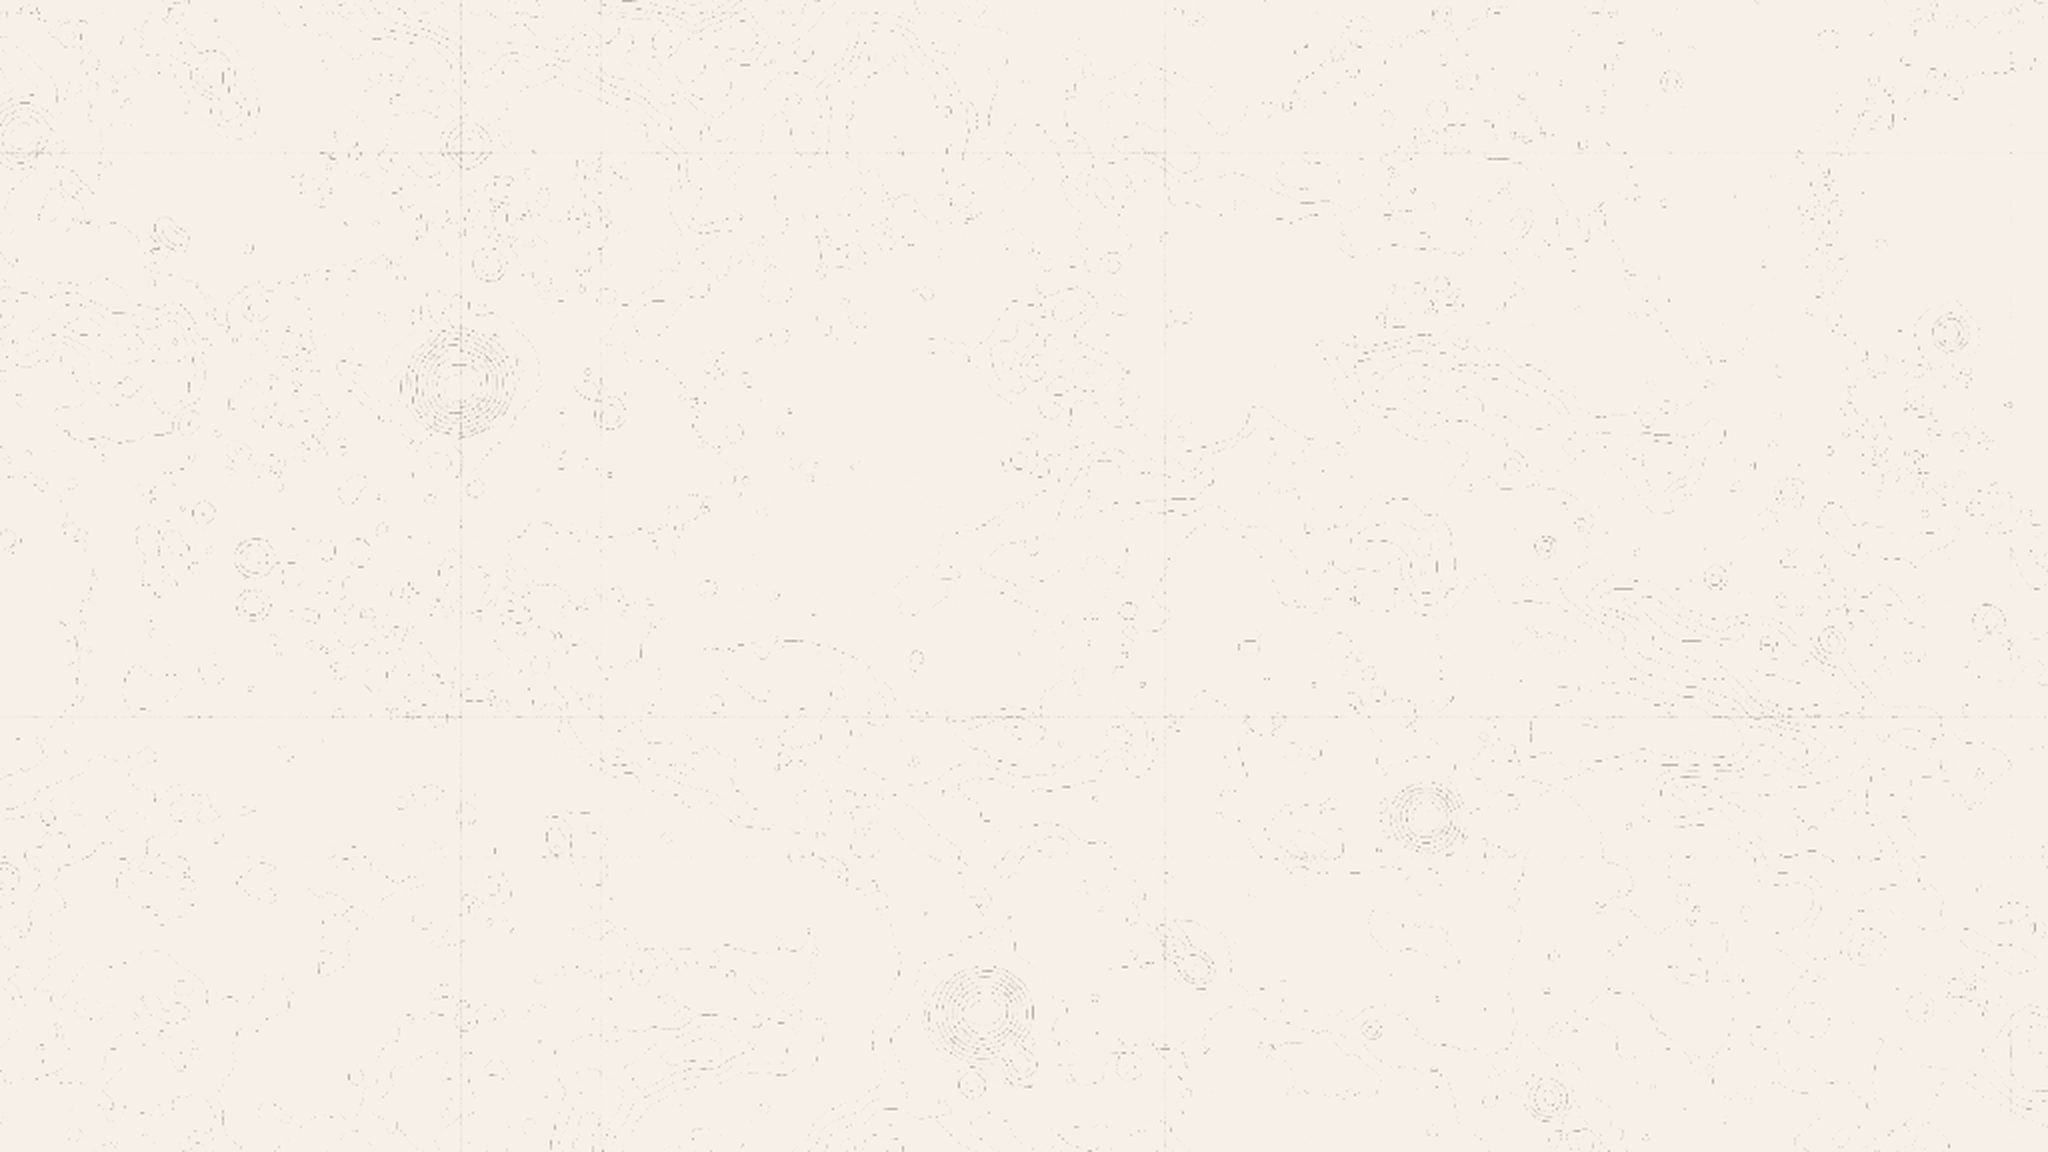
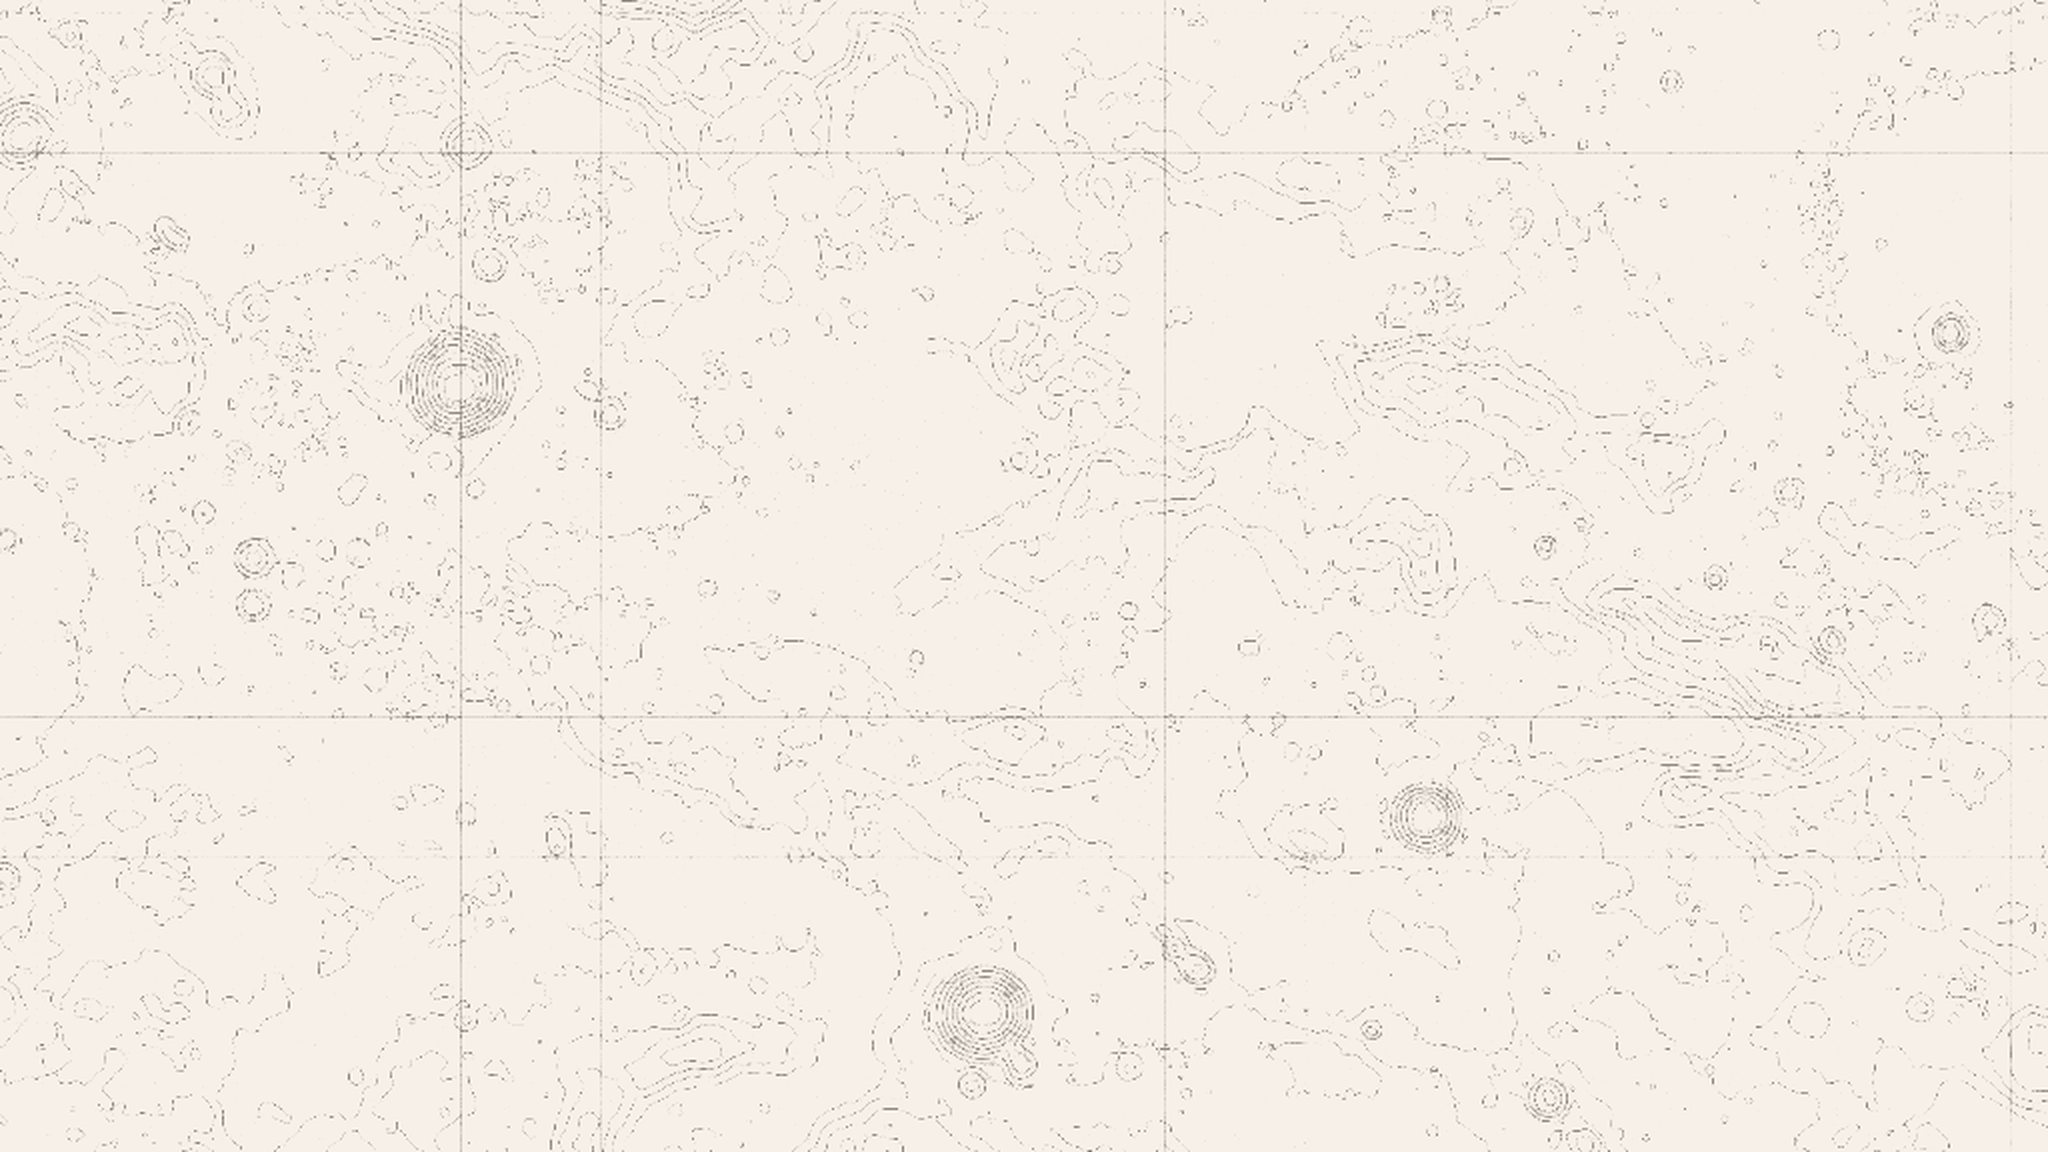
Make the chart readable without leaving the paper color.
The first pass was so light it vanished behind the text.

diff --git a/index.html b/index.html
@@ -5,7 +5,7 @@
   <meta name="viewport" content="width=device-width, initial-scale=1">
   <title>Substrate</title>
   <meta name="description" content="Shipment tracking and document filing automation. A service of Substrate Technologies Limited.">
-  <link rel="stylesheet" href="styles.css?v=4">
+  <link rel="stylesheet" href="styles.css?v=5">
 </head>
 <body>
   <main class="wrap">

diff --git a/privacy.html b/privacy.html
@@ -4,7 +4,7 @@
   <meta charset="utf-8">
   <meta name="viewport" content="width=device-width, initial-scale=1">
   <title>Privacy policy — Substrate Sentinel</title>
-  <link rel="stylesheet" href="styles.css?v=4">
+  <link rel="stylesheet" href="styles.css?v=5">
 </head>
 <body>
   <main class="wrap">

diff --git a/terms.html b/terms.html
@@ -4,7 +4,7 @@
   <meta charset="utf-8">
   <meta name="viewport" content="width=device-width, initial-scale=1">
   <title>Terms — Substrate Sentinel</title>
-  <link rel="stylesheet" href="styles.css?v=4">
+  <link rel="stylesheet" href="styles.css?v=5">
 </head>
 <body>
   <main class="wrap">

diff --git a/styles.css b/styles.css
@@ -13,7 +13,7 @@ html { background: var(--bg); }
 body {
   margin: 0;
   background-color: var(--bg);
-  background-image: url("map.jpg");
+  background-image: url("map.jpg?v=2");
   background-repeat: no-repeat;
   background-position: center;
   background-size: cover;
